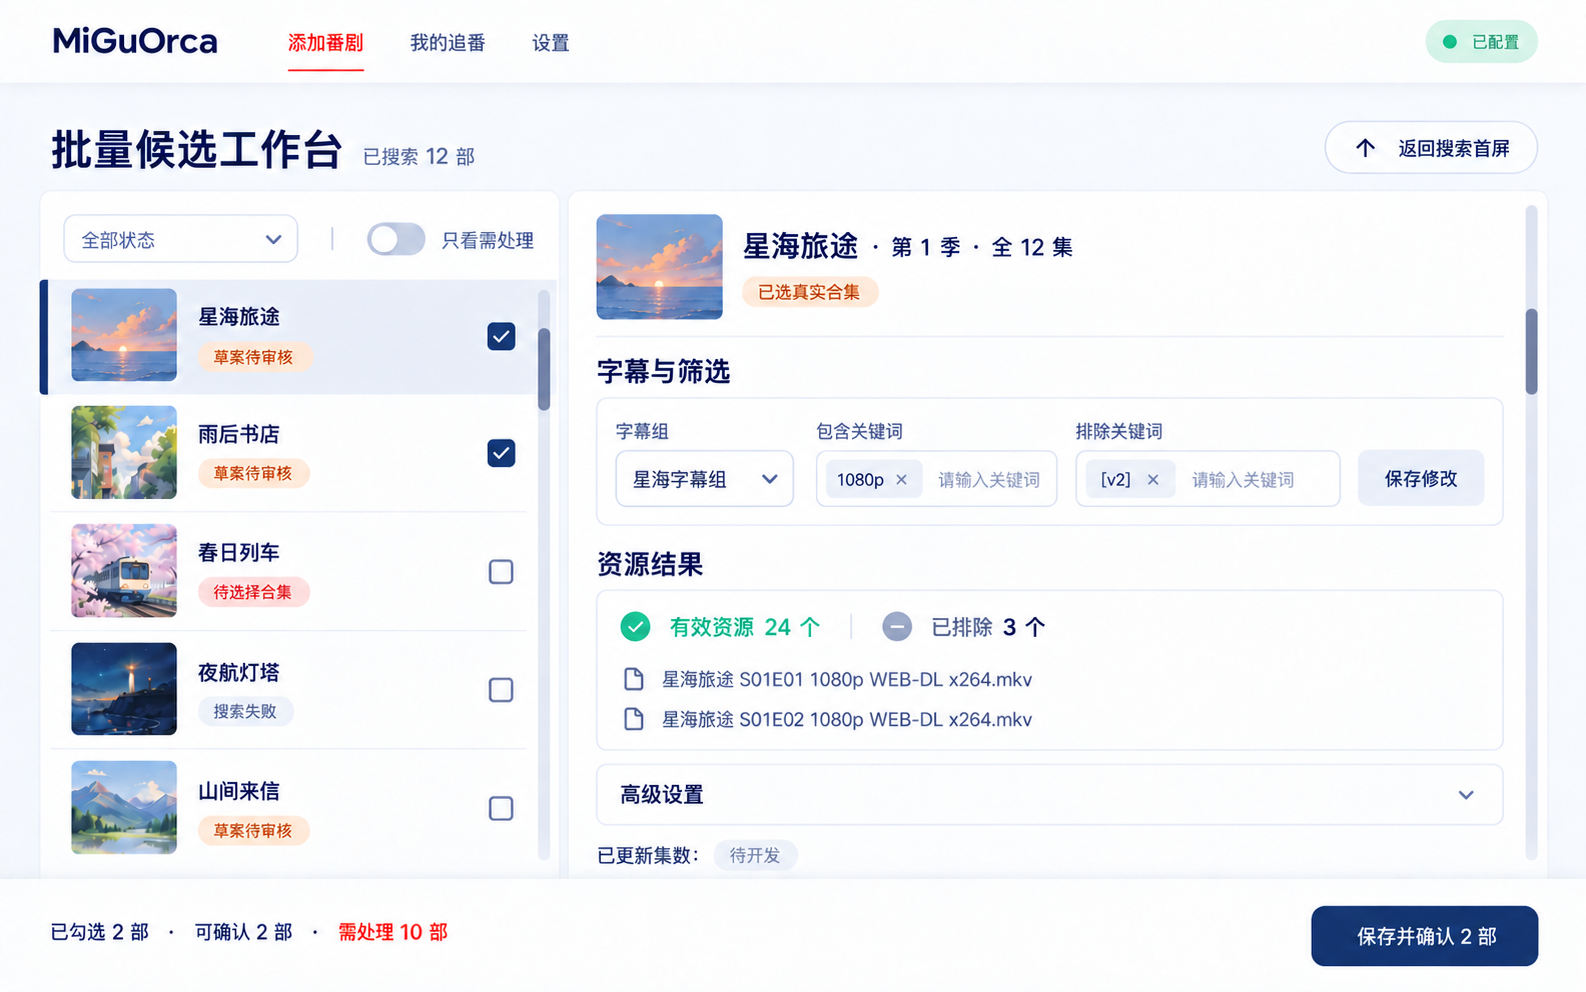
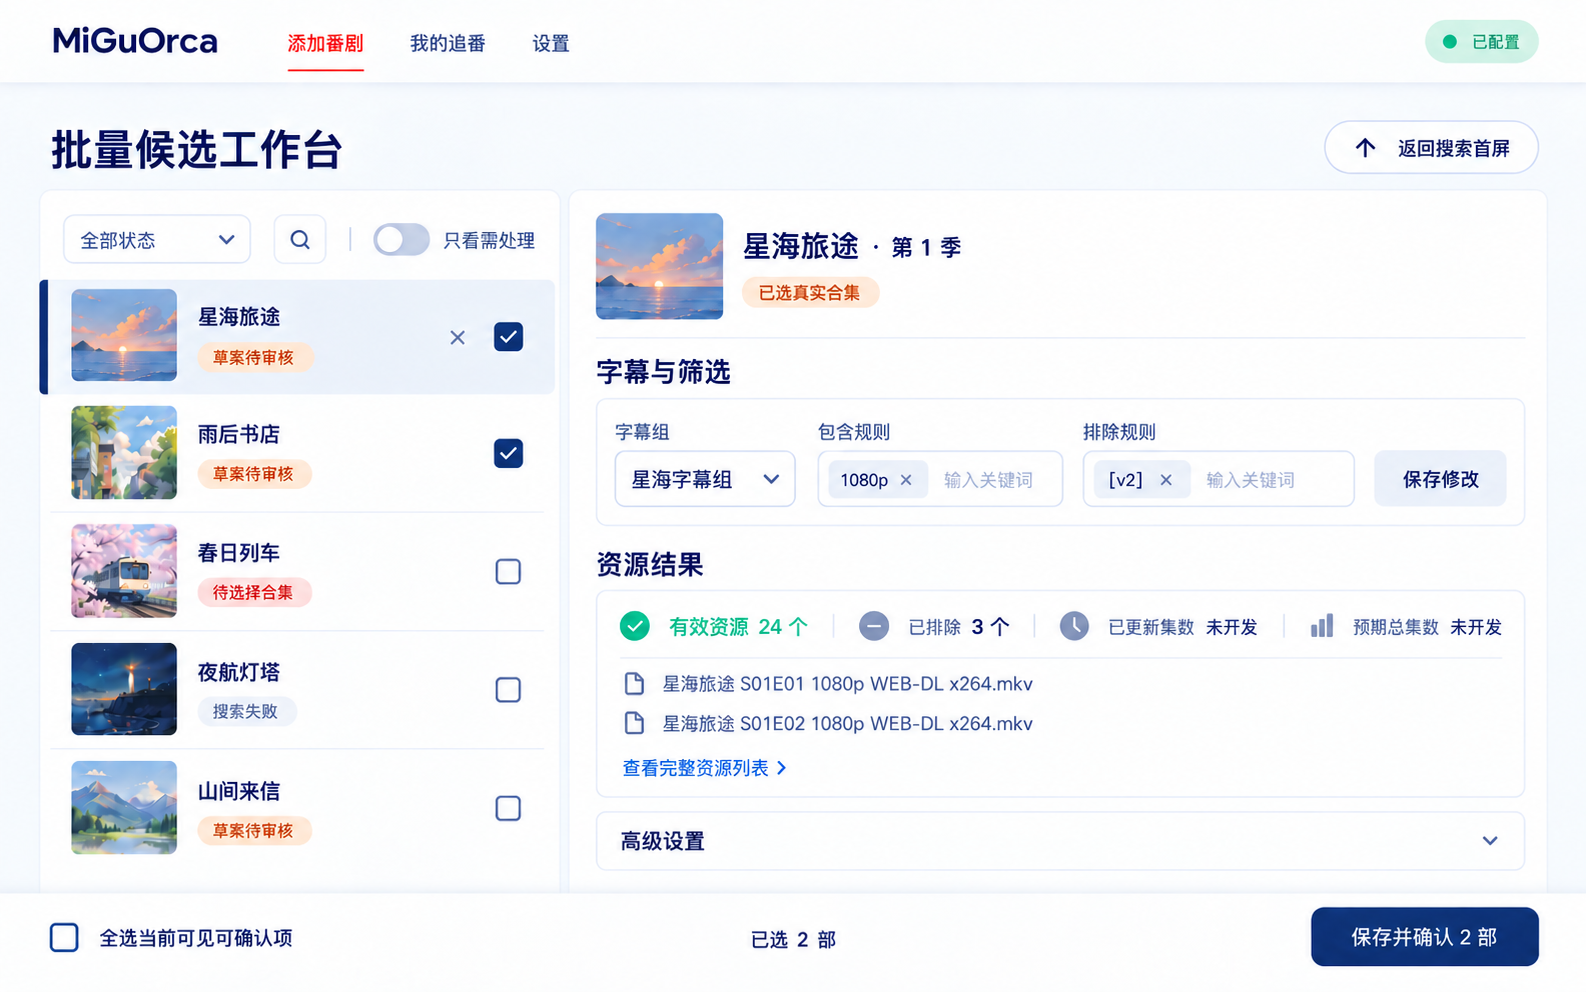
docs: 记录批量草案工作台设计共识（#145）

diff --git a/docs/design/frontend-ux-redesign-2026-09-23.md b/docs/design/frontend-ux-redesign-2026-09-23.md
@@ -1,6 +1,6 @@
 # 前端新版设计图与交互基线
 
-状态：21 张新版图的整体方向已获用户认可，原设计基线已由 PR #106 合并；图 12、图 17 的局部修订已由 PR #118 合并（提交 `99e94f6`，merge `8ff865b`），设计门禁解除。本文记录目标设计与实现依赖，图片不是逐字或逐像素的业务契约。旧效果图已归档，仅作历史对照，不作为新版图的目标状态。前端实现按子 Issue #109～#117 依依赖开展；共用壳层数值基线见[壳层数值基线](frontend-ux-shell-geometry-baseline.md)。
+状态：21 张新版图的整体方向已获用户认可，原设计基线已由 PR #106 合并；图 12、图 17 的局部修订已由 PR #118 合并（提交 `99e94f6`，merge `8ff865b`），设计门禁解除。图 11 的 2026-09-25 批量草案修订已由用户验图认可，资产与共识已更新，尚不代表前端实现或浏览器金样通过。本文记录目标设计与实现依赖，图片不是逐字或逐像素的业务契约。旧效果图已归档，仅作历史对照，不作为新版图的目标状态。前端实现按子 Issue #109～#117 依依赖开展；共用壳层数值基线见[壳层数值基线](frontend-ux-shell-geometry-baseline.md)。
 
 ## 完整设计图清单
 
@@ -30,9 +30,28 @@
 | 20 | 选择提交方式弹窗 | [弹窗－选择提交方式](assets/frontend-ux/redesign-2026-09-23/弹窗－选择提交方式.png) |
 | 21 | 重新搜索与删除方案确认对照 | [弹窗－重新搜索与删除方案对照](assets/frontend-ux/redesign-2026-09-23/弹窗－重新搜索与删除方案对照.png) |
 
+## 2026-09-25 批量草案修订（已确认，待实现）
+
+以下四张图来自本轮已确认的批量工作台方向，主规格为 [Issue #145](https://github.com/Ghostning233/migu_orca/issues/145)。修订前的图 11 已移入[归档目录](assets/frontend-ux/archive/redesign-2026-09-25-batch-draft-before/)，修订主图占用原正式文件名；用户已查看并认可搜索浮层及资源明细双页签弹窗。图中的资源名称、数量和封面均为虚构示例，不代表实时 MiKan 数据。
+
+| 状态 | 修订图 | 核对点 |
+| --- | --- | --- |
+| 草案默认态 | [批量草案工作台](assets/frontend-ux/redesign-2026-09-23/添加番剧－批量－草案工作台.png) | 精简左右栏、四项资源结果、一行底部操作栏、隐藏滚动条 |
+| 标题搜索展开 | [标题搜索展开](assets/frontend-ux/redesign-2026-09-23/添加番剧－批量－草案工作台－标题搜索展开.png) | 搜索框浮在左栏卡片上方，不推挤筛选控件或列表 |
+| 资源明细：有效资源 | [有效资源页签](assets/frontend-ux/redesign-2026-09-23/添加番剧－批量－资源明细－有效资源.png) | 弹窗内浏览当前筛选结果，保持工作台滚动位置 |
+| 资源明细：已排除 | [已排除页签](assets/frontend-ux/redesign-2026-09-23/添加番剧－批量－资源明细－已排除.png) | 按需查看安全标题与排除原因，不在默认层铺开 |
+
+本轮确定的设计语义：
+
+- 草案右栏移除重复的筛选规则展示区、技术详情入口、「加入批量确认」及重复删除按钮。高级设置默认折叠，仅容纳正则匹配、大小写敏感和目录名；左栏未保存条目的删除入口保留为卡片小图标，悬停或键盘聚焦时可见。
+- 资源结果默认层同排展示「有效资源」「已排除」「已更新集数」「预期总集数」；后两项本轮固定显示「未开发」，不调用新后端能力，也不从资源数量推断集数。标题区暂不显示「全 N 集」，避免与未开发占位同屏矛盾。此占位仅用于批量草案工作台，不改变其他页面已有的「未知」数据展示规则。
+- 左栏保留状态筛选与「只看需处理」；标题搜索默认收起为放大镜图标，展开为浮层，筛选不改变勾选范围。底栏只保留「全选当前可见可确认项」、简短已选计数和「保存并确认 N 部」一个主按钮；有已勾选条目因筛选暂不可见时，计数补充「当前可见 M 部」（M 指已勾选且当前可见的条目），最终确认弹窗列出实际参与名单。失败、结果未知及恢复动作仍须按真实状态呈现，不因默认图简化而删除。
+- 搜索首屏与工作台屏保持两屏吸附；批量左右栏各自内滚，栏内到边界也不切屏，模块外空白区或返回按钮才能切回首屏。添加番剧外层与批量双栏的滚动条目标为隐藏，同时保留滚轮、触控板和键盘可达性；本条更新下文原先要求批量双栏显示滚动条的旧目标。我的追番内部滚动条目标不在本次变更范围内。
+- 资源明细采用双页签弹窗：默认打开有效资源，可切到已排除并查看安全标题与排除原因；弹窗自身承载长列表滚动，关闭后焦点与右栏位置恢复。按字幕组分组的完整种子列表不进入此批量草案默认流程。
+
 全部图片由内置 imagegen 的 `ui-mockup`／定向编辑模式生成。图中小字、虚构样例和控件可用状态需以本文及现行产品契约核对；图像生成器不能单独确定业务规则或精确像素值。候选对照图表达「同宽、同排、居中」关系，其尺寸标注只作设计示意，正式 1280px 验证以实现测量为准。
 
-本轮只定向修订图 12、图 17，旧版保存在[局部修订前归档](assets/frontend-ux/archive/redesign-2026-09-24-local-revision/)中。图 12 表现的是「一部成功、一部方案已保存但确认未完成」的具体情形：待确认条目不能再次勾选保存，右侧不再保留草案编辑表单，仅在固定底栏提供一个「重试确认」主操作；其他失败类别按下文状态规则处理。图 17 将中间分组明确为「MiGuOrca 本地数据」，说明当前浏览器所用数据档案及切换不迁移原数据，不表示管理媒体下载路径。原图主要为 1586×992，图 12 本轮生成稿为 1585×992；此 1px 画布差不改变数值布局与浏览器验收基线。
+2026-09-24 的局部修订只涉及图 12、图 17，旧版保存在[局部修订前归档](assets/frontend-ux/archive/redesign-2026-09-24-local-revision/)中。图 12 表现的是「一部成功、一部方案已保存但确认未完成」的具体情形：待确认条目不能再次勾选保存，右侧不再保留草案编辑表单，仅在固定底栏提供一个「重试确认」主操作；其他失败类别按下文状态规则处理。图 17 将中间分组明确为「MiGuOrca 本地数据」，说明当前浏览器所用数据档案及切换不迁移原数据，不表示管理媒体下载路径。原图主要为 1586×992，图 12 本轮生成稿为 1585×992；此 1px 画布差不改变数值布局与浏览器验收基线。
 
 ## 视觉基准与滚动修订
 
@@ -54,7 +73,7 @@
 - 单番首屏：全屏居中的单一搜索任务、模式切换、完整单行输入与三步预告；首次进入不显示结果或装饰性大幅插画。
 - 批量候选工作台：搜索首屏下方的第二屏；约 36% 条目列表与 64% 当前详情；独立勾选和当前行高亮；候选只显示封面、标题、季度证据、总集数与选择动作，不显示资源数或虚构简介。
 - 追番中：五类状态、左列表右详情；已选条目展示安全摘要；修改外部订阅、暂停和刷新作为并列次操作，更多操作与诊断折叠。
-- 滚动修订：批量工作台左栏和右栏、我的追番列表和详情分别拥有可见的内部纵向滚动条；页面标题、状态总览和底部批量操作栏留在滚动容器外。
+- 滚动修订：批量工作台左栏和右栏、我的追番列表和详情分别拥有独立的内部纵向滚动；批量工作台滚动条按 2026-09-25 修订目标隐藏，我的追番滚动条保持可见；页面标题、状态总览和底部批量操作栏留在滚动容器外。
 - 单番补图：四候选必须一行居中；1～4 项对照保持卡片同宽；被点击候选就地加载且其余候选暂禁；草案审核才显示资源数；失败和无候选均在搜索首屏保留输入并就地恢复。
 - 批量补图：首屏保留多行输入；进度以已完成部数分段且不预估未完成项；候选和草案共用独立滚动的左右工作台；部分成功只对失败项提供与失败原因匹配的恢复操作，成功项转待提交。
 - 追番补图：追番中三项管理操作并列；待提交突出「提交方案」；结果未知突出先核验且不能重复提交；复核失败明确尚未创建外部订阅并返回修改方案。
@@ -74,7 +93,7 @@
 - 单番候选使用居中的卡片网格。1～4 个合集均在同一行内居中展示；后端若返回超过四项，只展示前四项并给出简短截断提示，不增加复杂入口。卡片不提前展示草案阶段才有的有效资源数。
 - 批量搜索完成后的工作台同样位于第二屏，搜索输入保留在第一屏。
 - 「全屏封面首屏」指占满一屏、聚焦搜索任务的入口；不以大幅插画或背景为前提。番剧封面展示在候选与详情中。
-- 两屏交界处轻柔吸附；整页纵向滚动只负责搜索首屏与工作台屏的切换。工作台屏不因长内容增长，批量左侧条目列表和右侧候选／草案详情各有独立、可见的纵向滚动条；顶部页面标题和底部操作栏保持在工作台屏内。
+- 两屏交界处轻柔吸附；整页纵向滚动只负责搜索首屏与工作台屏的切换。工作台屏不因长内容增长，批量左侧条目列表和右侧候选／草案详情各自独立内滚；2026-09-25 修订后滚动条隐藏，顶部页面标题和底部操作栏保持在工作台屏内。
 - 搜索结果就绪后自动进入工作台屏，并将键盘焦点移到结果标题。工作台屏保留「返回搜索首屏」按钮。
 - 返回首屏修改输入不会立即清除第二屏。重新搜索若会替换未保存工作，先用简短提示说明「下方未保存的修改会被清除」；取消则保持现场。
 - 单番选择合集后，第二屏从候选选择切换为草案审核，不另开第三屏；「重新选择合集」返回第二屏候选状态。

diff --git a/docs/backlog.md b/docs/backlog.md
@@ -37,9 +37,10 @@
 
 | Backlog ID | 事项 | 状态 / 触发条件 |
 | --- | --- | --- |
-| BL-020 | 当前最新播出集数 | 待评估；先证明公开、稳定且不依赖种子数猜测的数据源 |
+| BL-020 | 官方已更新集数 | 待评估；先证明公开、稳定且不依赖种子数猜测的数据源 |
 | BL-021 | 真实 LLM 名称解析 provider | 待独立评估；供应商、密钥、成本和无 LLM fallback 明确后再排期 |
 | BL-022 | 新版 AutoBangumi API Token/Bearer 写契约 | 条件触发；取得明确目标版本及官方契约或脱敏 fixture 后再排期 |
+| BL-027 | MiKan 页面加载逻辑与官方更新进度数据源调研 | 待与独立 Agent 讨论；先调研，不纳入本轮批量工作台优化 |
 
 认证、权限模块当前优先级最低，现阶段无明确需求，默认不纳入后续开发计划。除非之后出现部署暴露、多人使用或远程访问场景，否则不单独规划。
 
@@ -590,17 +591,30 @@ Stage 32 执行范围见 `docs/MiGuOrca_stage32_contract_hardening_PRD.md`（US-
 - 不默认接管用户机器、NAS 或容器环境。
 - 不因部署向导改变 MiGuOrca 的核心定位：Auto Bangumi 前置订阅编排工作台。
 
-### BL-020: 当前最新播出集数
+### BL-020: 官方已更新集数
 
 - 状态：待评估，未排期
-- 来源：Stage 23 剧集摘要占位
+- 来源：Stage 23 剧集摘要占位；2026-09-25 明确为官方目前更新到的最新一集，不是字幕组发布进度
 - 优先级：未排序，不阻塞 BL-018
 
 待确认：
 
 - 先确定公开、稳定、可测试且允许使用的数据源，再决定是否实现抓取或聚合。
-- 不使用有效种子数、RSS 最大集数、下载状态或文件名猜测当前播出集数。
+- 不使用有效种子数、RSS 最大集数、下载状态或文件名猜测官方已更新集数。
 - 数据源缺失、失败或冲突时继续显示“待开发”或“未知”，不得伪造进度。
+
+### BL-027: MiKan 页面加载逻辑与官方更新进度数据源调研
+
+- 状态：待与独立 Agent 讨论，未排期；不纳入当前批量工作台优化
+- 来源：2026-09-25 批量草案工作台设计讨论；关联 BL-020
+- 优先级：未排序
+
+独立讨论任务：
+
+- 梳理 MiKan 搜索页、候选与番剧详情页的实际加载链路：初始 HTML、后续请求、候选区域位置、服务端提前停止读取、缓存及重定向，识别当前搜索耗时的主要来源，并给出可重复的测量办法。
+- 调查 MiKan 是否公开提供番剧**官方目前更新到的最新一集**，区分官方播出进度、字幕组发布进度和资源标题中出现的集数；评估字段的稳定性、缺失与冲突处理，以及是否需要其他公开数据源。
+- 形成带证据的调研结论和可选方案，再单独决定搜索提速与 BL-020 的接口、缓存和验收范围；本任务不直接修改搜索算法、解析器或页面，也不把资源数推断为集数。
+- 调研记录仅保留安全的页面结构、耗时与公开字段证据，不保存 Cookie、原始响应、完整 RSS URL、magnet 或本地运行数据。
 
 ### BL-021: 真实 LLM 名称解析 provider
 

diff --git a/docs/design/frontend-ux-add-anime-geometry-baseline.md b/docs/design/frontend-ux-add-anime-geometry-baseline.md
@@ -9,6 +9,8 @@
 | 范围 | 单番搜索首屏 + 候选工作台的上下两屏结构；批量工作台与草案审核在本文件后续小节扩展 |
 | 位图角色 | 设计 PNG 仅作人工对照，不设像素差硬门禁（裁决 3C） |
 
+2026-09-25 用户已确认[批量草案工作台修订](frontend-ux-redesign-2026-09-23.md#2026-09-25-批量草案修订已确认待实现)：批量左右栏继续独立内滚，但滚动条改为隐藏；底栏目标改为单行。下文「可见内部滚动条」等规则属于旧设计基线，与 #145 确认的新目标冲突；实施时需按新目标重测，并经用户审核真实浏览器截图后更新视觉金样。
+
 数值来源规则：所有间距/尺寸/字号取冻结 Token；Token 未覆盖的页面专属量在本文逐项标注，
 只用 Token 阶梯组合得出。可审核断言是 `tests/browser/test_app_single_candidate_geometry.py`
 与 `tests/browser/test_app_single_two_screen.py`。

diff --git a/CONTEXT.md b/CONTEXT.md
@@ -4,6 +4,8 @@
 
 - **搜索首屏**：添加番剧入口中供用户输入单部或批量番剧名称的完整页面区域。搜索成功后仍可返回此处修改输入；避免把它称为「封面图」。
 - **工作台屏**：搜索首屏下方承载候选选择或草案审核的页面区域。单番的候选与草案是这里的两种阶段状态，不是两个一级页面。
+- **预期总集数**：已选真实 MiKan 合集公开标明的完整集数，界面可简写为「全 N 集」；缺少明确公开数值时为未知，不从资源标题、种子数量或有效资源数推算。
+- **已更新集数**：这部番剧由官方目前更新到的最新一集。它不表示所选字幕组已发布到的集数，也不由资源标题、种子数量或下载进度推算；字幕组发布进度由用户自行判断。
 
 ## 本地数据与下载路径
 

diff --git a/docs/design/assets/frontend-ux/archive/README.md b/docs/design/assets/frontend-ux/archive/README.md
@@ -10,6 +10,7 @@
 | `batch-review-12-v2.png`、`tracking-management-v2.png` | 批量与追番页面的上一轮方向图 | 2026-09-23 |
 | `batch-partial-success-v1.png`、`tracking-revalidation-failed-v1.png` | 批量部分成功与提交前复核失败的上一轮异常图 | 2026-09-23 |
 | `redesign-2026-09-23-baseline/` 两图 | 本轮生成后被滚动条修订取代的初稿 | 2026-09-23 |
+| `redesign-2026-09-25-batch-draft-before/` | 批量草案工作台信息层级修订前的设计图 | 2026-09-25 |
 | `2609181532-web-ui-old/` | 旧 Web UI 截图 | 2026-09-18 |
 
 文件名中的 V1/V2 仅表示当时版本；历史 PRD 对这些图的引用只说明当时的验收背景。
